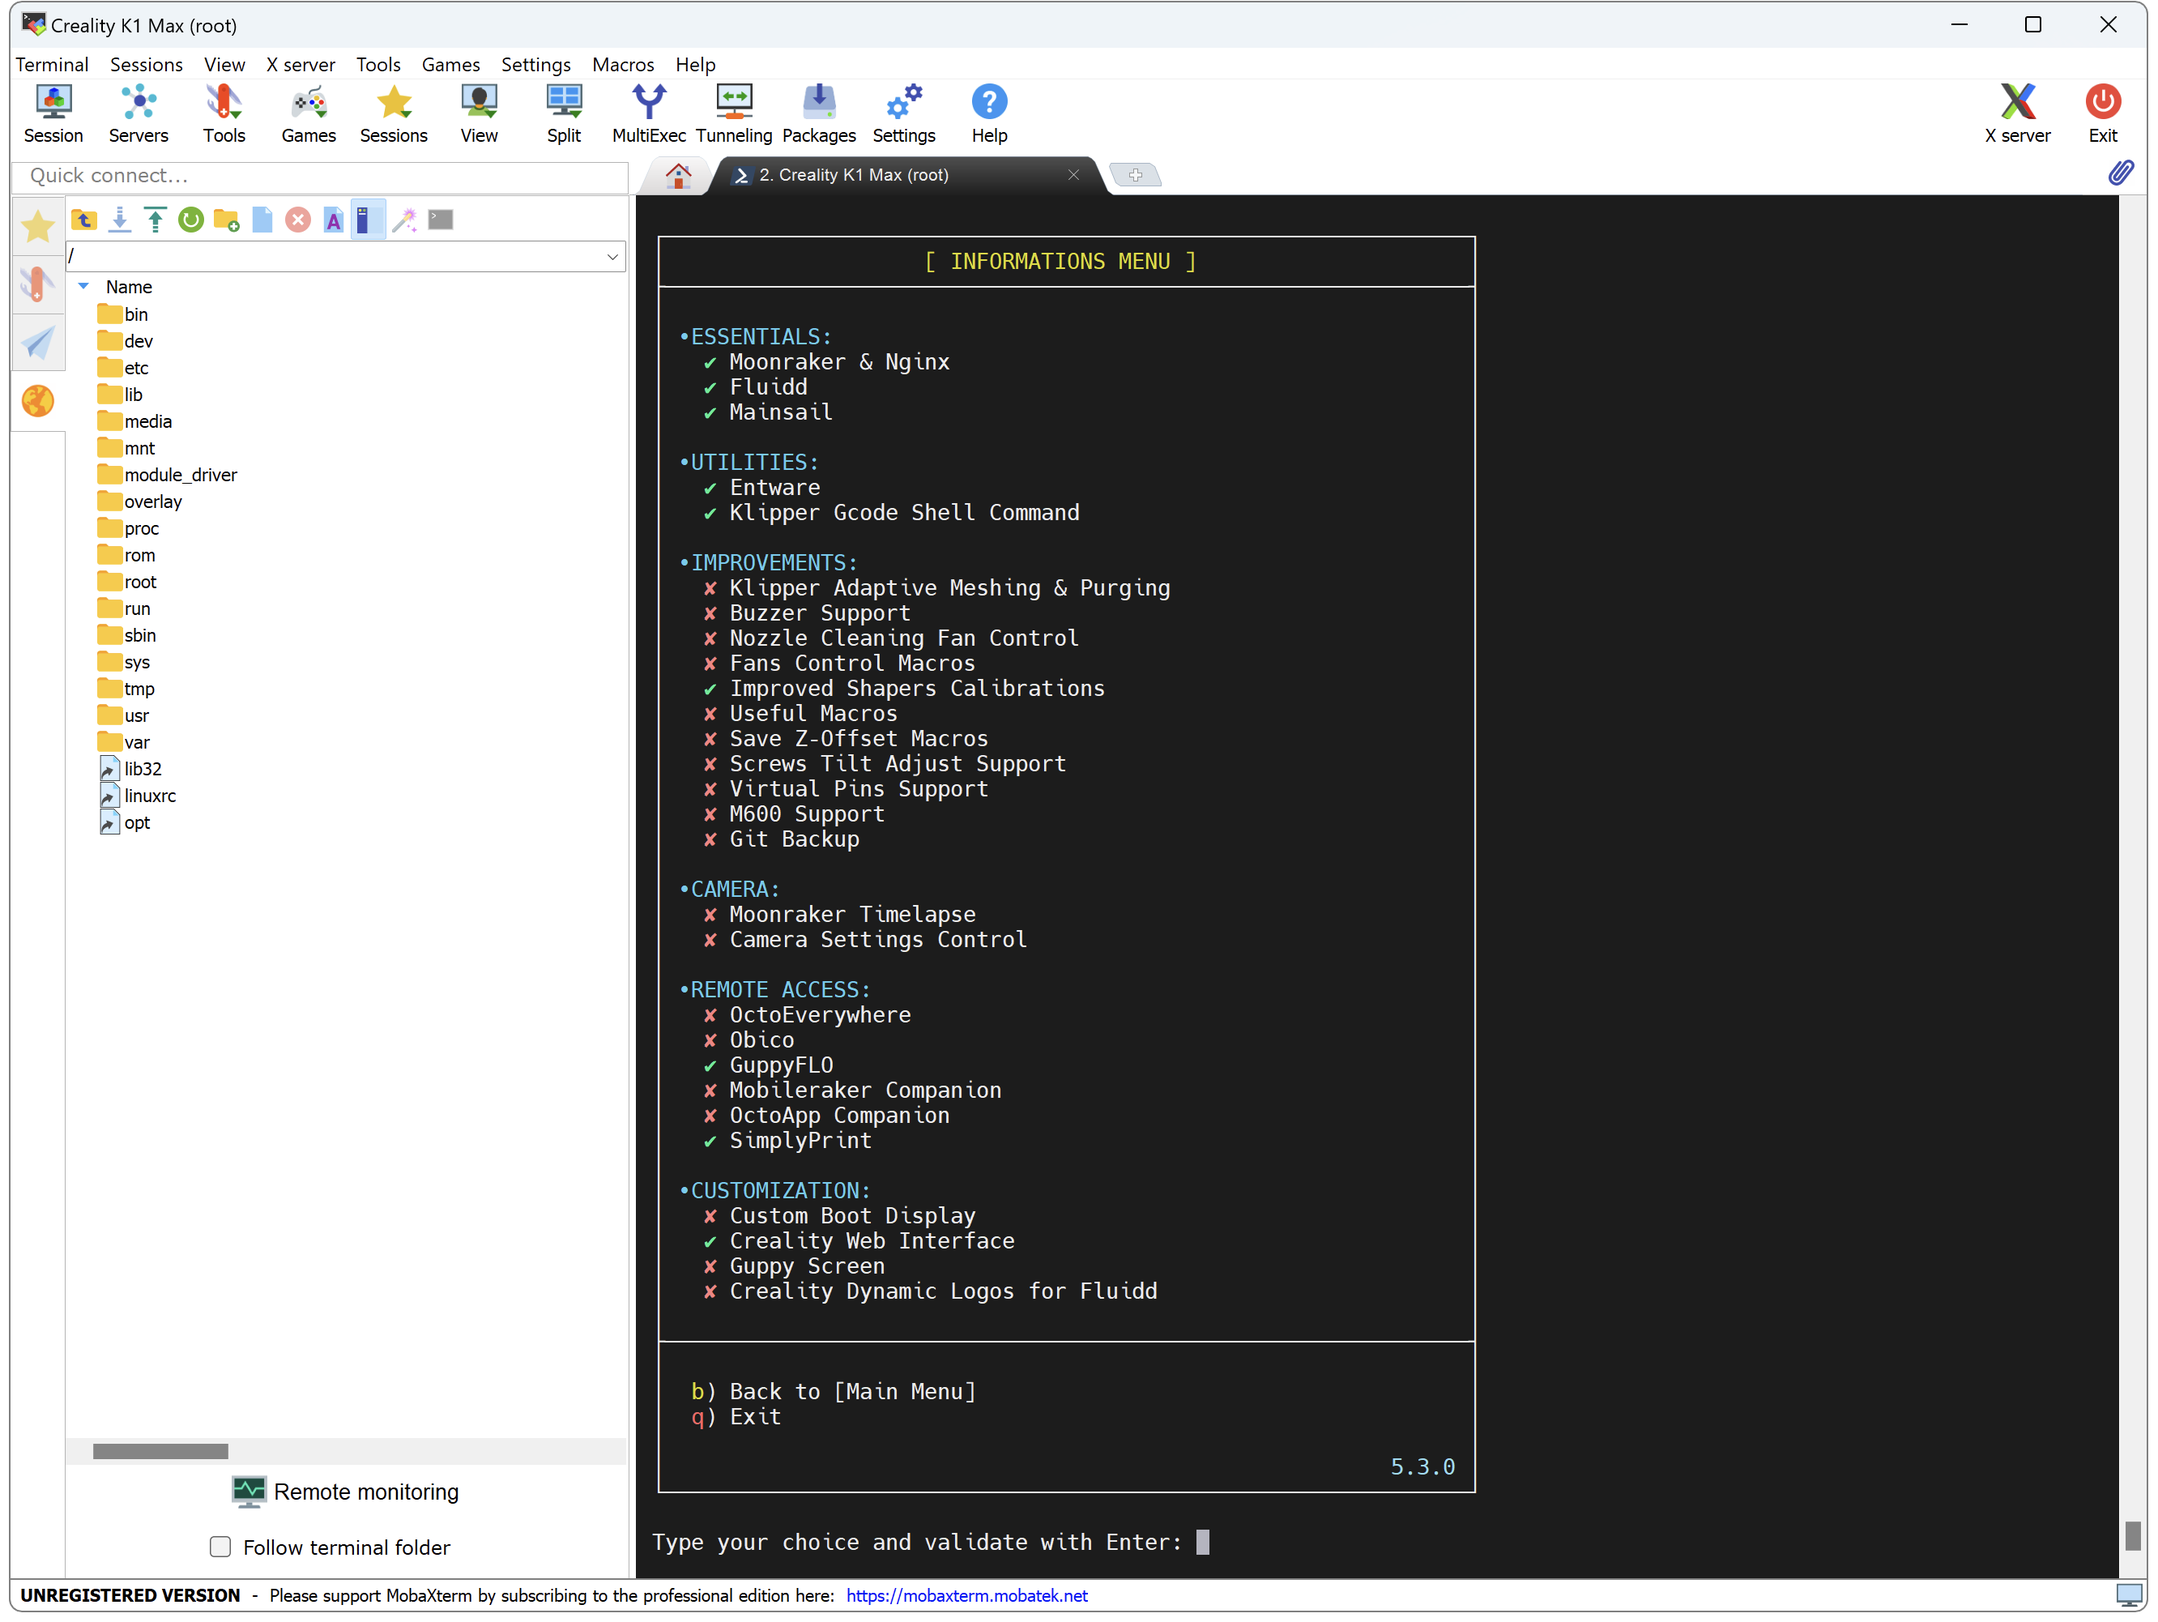
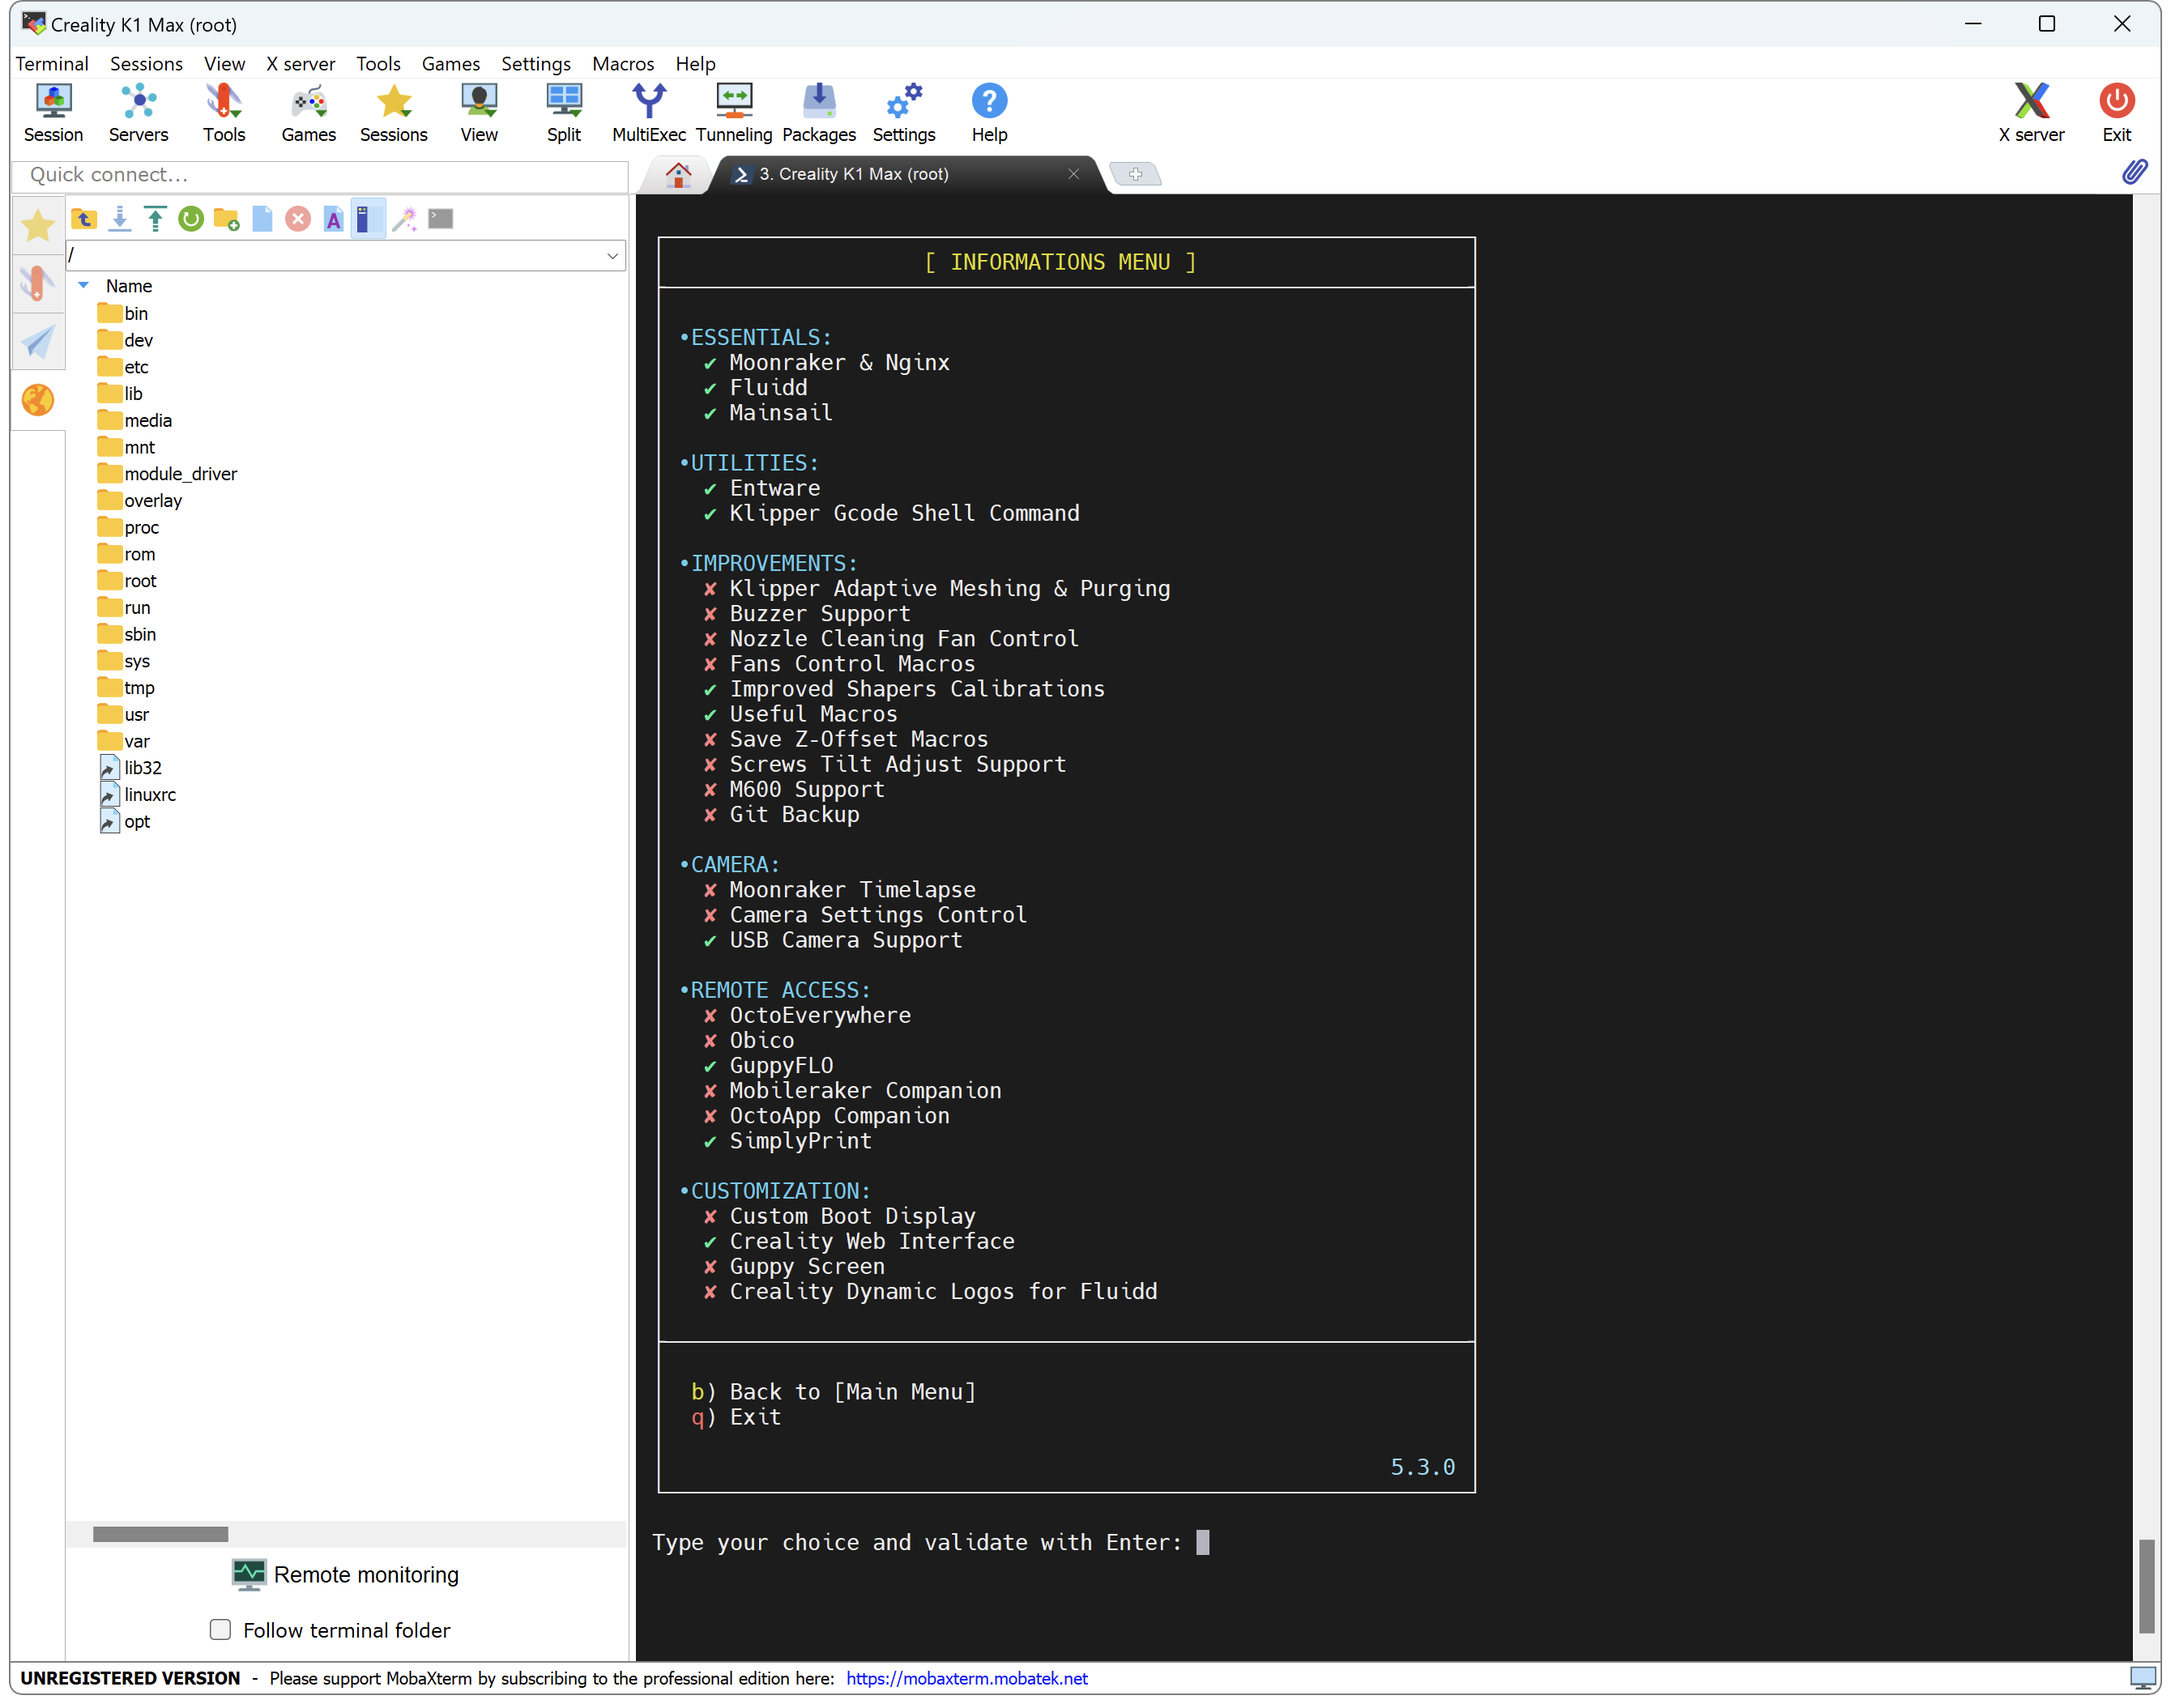
Update

Changed region(s): [[0.0, 0.0, 0.997, 1.0], [0.6543, 0.7742, 0.6854, 0.9291]]

diff --git a/docs/others/useful-links.md b/docs/others/useful-links.md
@@ -12,8 +12,6 @@ Here you can find several useful links.
 
 - :material-web: <a href="https://wiki.creality.com/en/k1-flagship-series">Creality Wiki</a>
 
-- :material-github: <a href="https://github.com/trevos3d/K1-USB-Cam">Use USB camera from USB port</a>
-
 - :material-github: <a href="https://github.com/victornpb/k1S/tree/main/camera">Control camera settings over SSH</a>
 
 - :material-github: <a href="https://github.com/D3vil-Design/K1-Hardware-Mods">D3D K1 Hardware Modifications</a>
